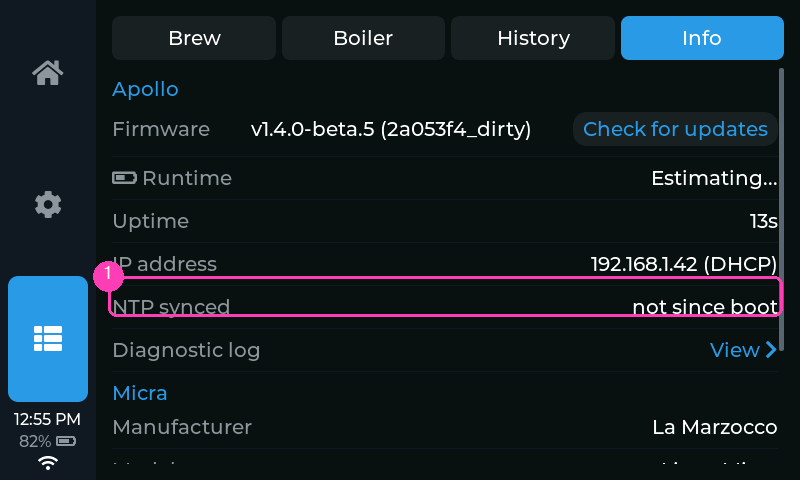
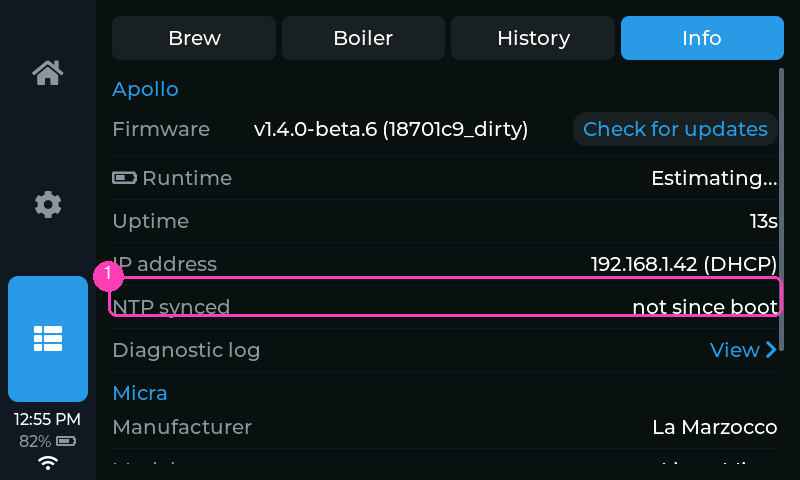
release: v1.4.0-beta.6

Changed region(s): [[0.3125, 0.25, 0.6875, 0.3125]]

diff --git a/include/version.h b/include/version.h
@@ -9,7 +9,7 @@
 
 namespace fw {
 
-inline constexpr const char* kVersion = "1.4.0-beta.5";
+inline constexpr const char* kVersion = "1.4.0-beta.6";
 
 // Release builds prove kVersion == the tag at compile time (build_check.h).
 #ifdef APOLLO_EXPECT_VERSION
